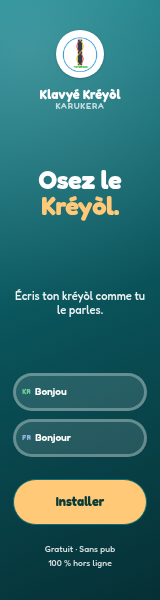
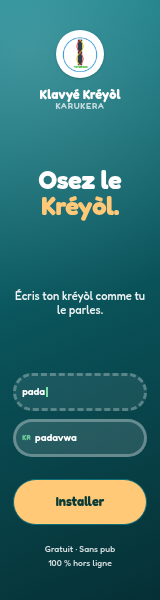
feat(pub): les gratte-ciels montrent la frappe de « pada »
Bonjou et Bonjour illustraient le bilingue, mais ce sont deux mots qu'un
clavier français propose déjà. Les deux formats verticaux montrent maintenant
un mot en cours de frappe, « pada », et ce que le clavier propose dessous :
« padavwa », que seul un dictionnaire kréyòl connaît.

La suggestion n'est pas choisie à la main : elle vient du moteur du simulateur,
port fidèle de SuggestionEngine.kt, interrogé sur le dictionnaire embarqué.

diff --git a/docs/publicites.html b/docs/publicites.html
@@ -239,6 +239,17 @@ code{font-family:var(--mono);font-size:12.5px;background:var(--stripe);padding:1
 }
 .L-sky .chip.kr::before{color:#7BE0A6;}
 .L-sky .chip.fr::before{color:#A8C6FF;}
+/* Le mot en cours de frappe, au-dessus de ce que le clavier propose. */
+.L-sky .typed{
+  display:flex;align-items:center;
+  border-radius:99px;padding:1.3cqh 4cqw;
+  font-size:6.4cqw;font-weight:600;color:#FFFFFF;
+  background:rgba(255,255,255,.07);border:.5cqh dashed rgba(255,255,255,.28);
+}
+.L-sky .typed .caret{
+  display:inline-block;width:.6cqw;min-width:2px;height:6.4cqw;
+  margin-left:.8cqw;background:#7BE0A6;
+}
 .L-sky .btn{margin-top:2.4cqh;width:100%;font-size:8cqw;padding:2cqh 0;}
 .L-sky .foot{font-size:5.4cqw;margin-top:1.6cqh;text-align:center;}
 
@@ -248,7 +259,8 @@ code{font-family:var(--mono);font-size:12.5px;background:var(--stripe);padding:1
 .L-sky.wide300 .brand .name{font-size:5cqw;}
 .L-sky.wide300 .brand .name b{font-size:5.8cqw;}
 .L-sky.wide300 .brand .name span{font-size:3.6cqw;}
-.L-sky.wide300 .chip{font-size:4.6cqw;}
+.L-sky.wide300 .chip,.L-sky.wide300 .typed{font-size:4.6cqw;}
+.L-sky.wide300 .typed .caret{height:4.6cqw;}
 .L-sky.wide300 .chip::before{font-size:3.2cqw;}
 .L-sky.wide300 .btn{font-size:5.6cqw;}
 .L-sky.wide300 .foot{font-size:3.6cqw;}
@@ -482,8 +494,8 @@ const LAYOUTS = {
     <h2 class="head">${c.headShort}</h2>
     <p class="sub">${c.subShort}</p>
     <div class="chipstack">
-      <span class="chip kr" data-lang="KR">Bonjou</span>
-      <span class="chip fr" data-lang="FR">Bonjour</span>
+      <div class="typed">pada<i class="caret"></i></div>
+      <span class="chip kr" data-lang="KR">padavwa</span>
       <span class="btn">${spec.w >= 300 ? c.cta : c.btn}</span>
       <p class="foot">${c.foot}</p>
     </div>`,
